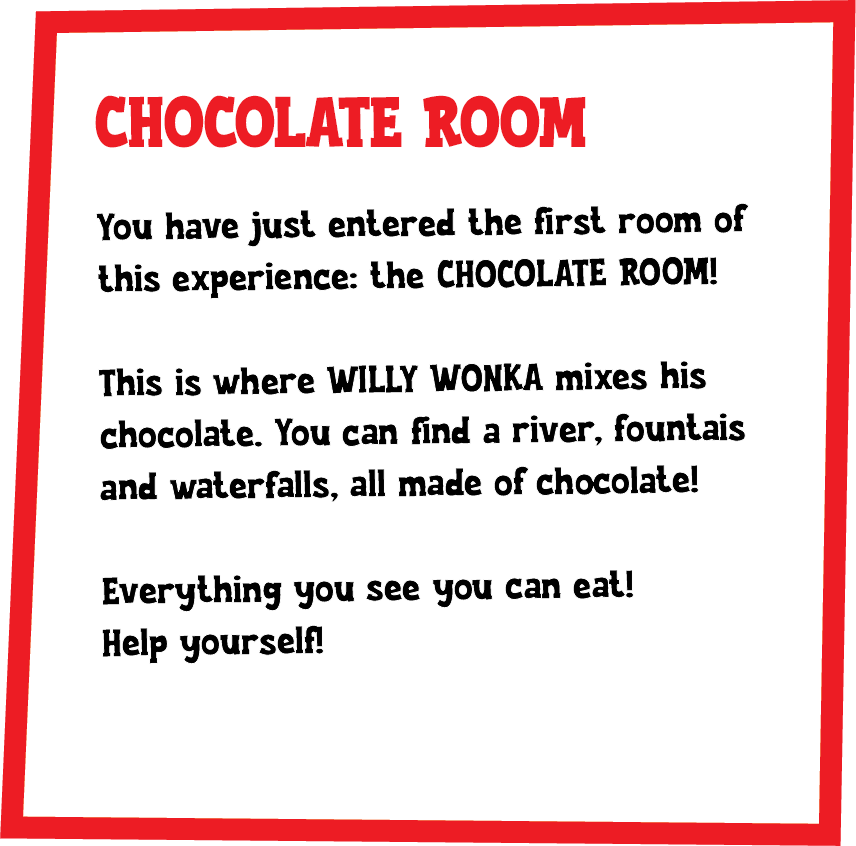
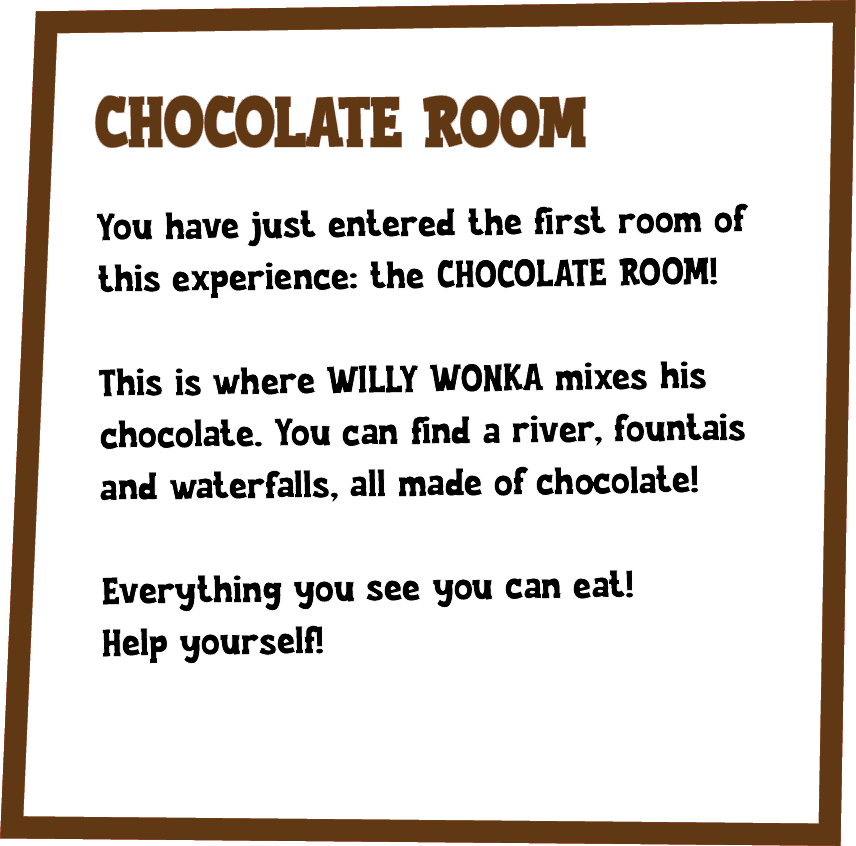
POPUPS FEITOS

Changed region(s): [[0.0, 0.0, 1.0, 1.0], [0.0911, 0.0922, 0.6986, 0.1844]]

diff --git a/chocolateroom.html b/chocolateroom.html
@@ -15,13 +15,15 @@
     <img src="./images/chocolateroombg.jpg" class="static bg">
     <div class="scene">
         <img src="./images/augustusobj_unactive.png" class="augustusimg obj" id="augustusgame" alt="Augustus">
+        <img src="./images/abobora_unactive.png" class="obj" id="abobora" alt="Candy pumpkin">
     </div>
     <div class="augustusdiv hidden">
         <canvas id="tintedImage"></canvas>
     </div>
-
-    <img src="images/popup_chocroom.png" class="static hidden popup">
-    <button id="botaonext" class="static hidden btn">Close</button>
+    <div class="popupdiv">
+        <img src="images/popup_chocroom.png" class="static hidden popup">
+        <button id="botaonext" class="static hidden btn">Close</button>
+    </div>
 </body>
 <script src="./script.js"></script>
 <script src="./chocolateroom.js"></script>

diff --git a/geral.css b/geral.css
@@ -32,24 +32,27 @@ html {
     filter: blur(1px);
 }
 
-.popup {
+.popupdiv {
+    position: relative;
     width: 40%;
-    height: auto;
-    position: absolute;
+    height: 40%;
     left: 50%;
-    top: 50%;
-    transform: translate(-50%, -50%);
+    transform: translate(-50%);
+}
+
+.popup {
+    width: 100%;
+    height: auto;
 }
 
 .btn {
     position: absolute;
-    left: 61%;
-    bottom: 19%;
-    transform: translate(-50%, 50%);
-    width: 25vh;
-    height: 8vh;
+    bottom: 7%;
+    right: 7%;
+    width: 25%;
+    height: 10%;
     border-radius: 0.5em;
-    font-size: 2em;
+    font-size: 1.5em;
     background-color: #ed1c24;
     color: #ffffff;
     border: none;

diff --git a/script.js b/script.js
@@ -51,9 +51,15 @@ function popup(img) {
   var titulo = img.id.toString() + '.png';
   var btn = document.querySelector(".btn");
   var popup = document.querySelector(".popup");
+  var popupdiv = document.querySelector(".popupdiv");
   popuptoggle();
   popup.src = "./images/popup_" + titulo;
   btn.setAttribute("onclick", "popuptoggle()");
+  if (img.classList.contains("obj")) {
+    popupdiv.className = "";
+    popupdiv.classList.add("popupdiv");
+    popupdiv.classList.add(img.id.toString());
+  }
 }
 
 if (getCookie('hairn') == "")

diff --git a/chocolateroom.css b/chocolateroom.css
@@ -11,6 +11,15 @@
     z-index: -1;
 }
 
+#abobora {
+    position: absolute;
+    bottom: 34%;
+    height: 17%;
+    width: auto;
+    left: 18%;
+    z-index: -1;
+}
+
 #tintedImage {
     position: absolute;
     left: 50%;
@@ -21,4 +30,19 @@
 
 main {
     display: none;
+}
+
+.btn {
+    background-color: #603814;
+}
+
+.btn:hover {
+    color: #603814;
+    border: 5px solid #603814;
+}
+
+.abobora {
+    width: 30%;
+    left: 25%;
+    padding-top: 2%;
 }
